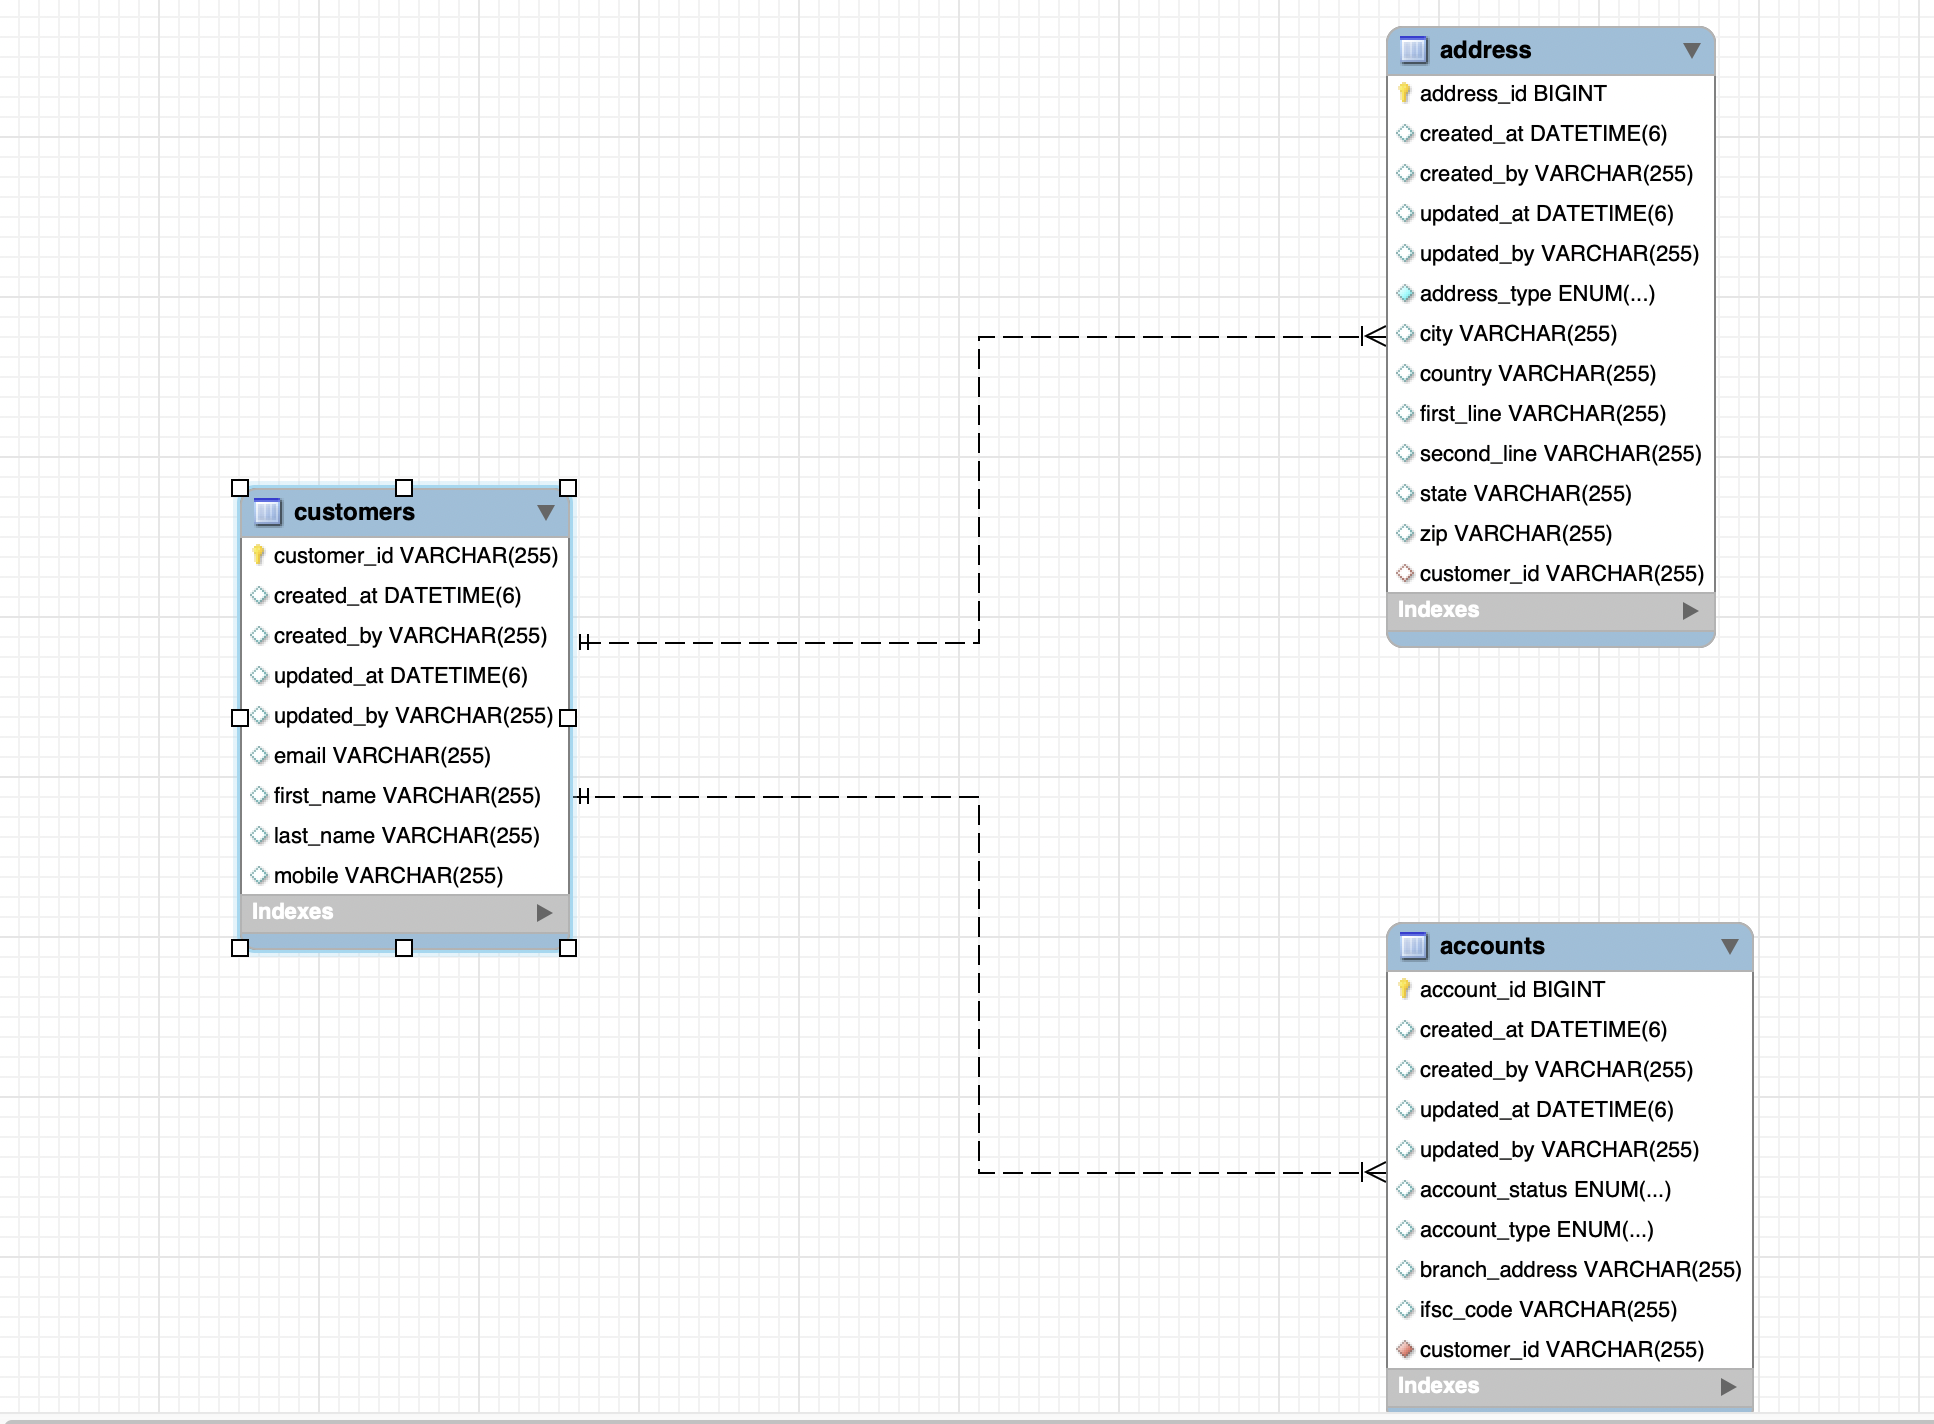
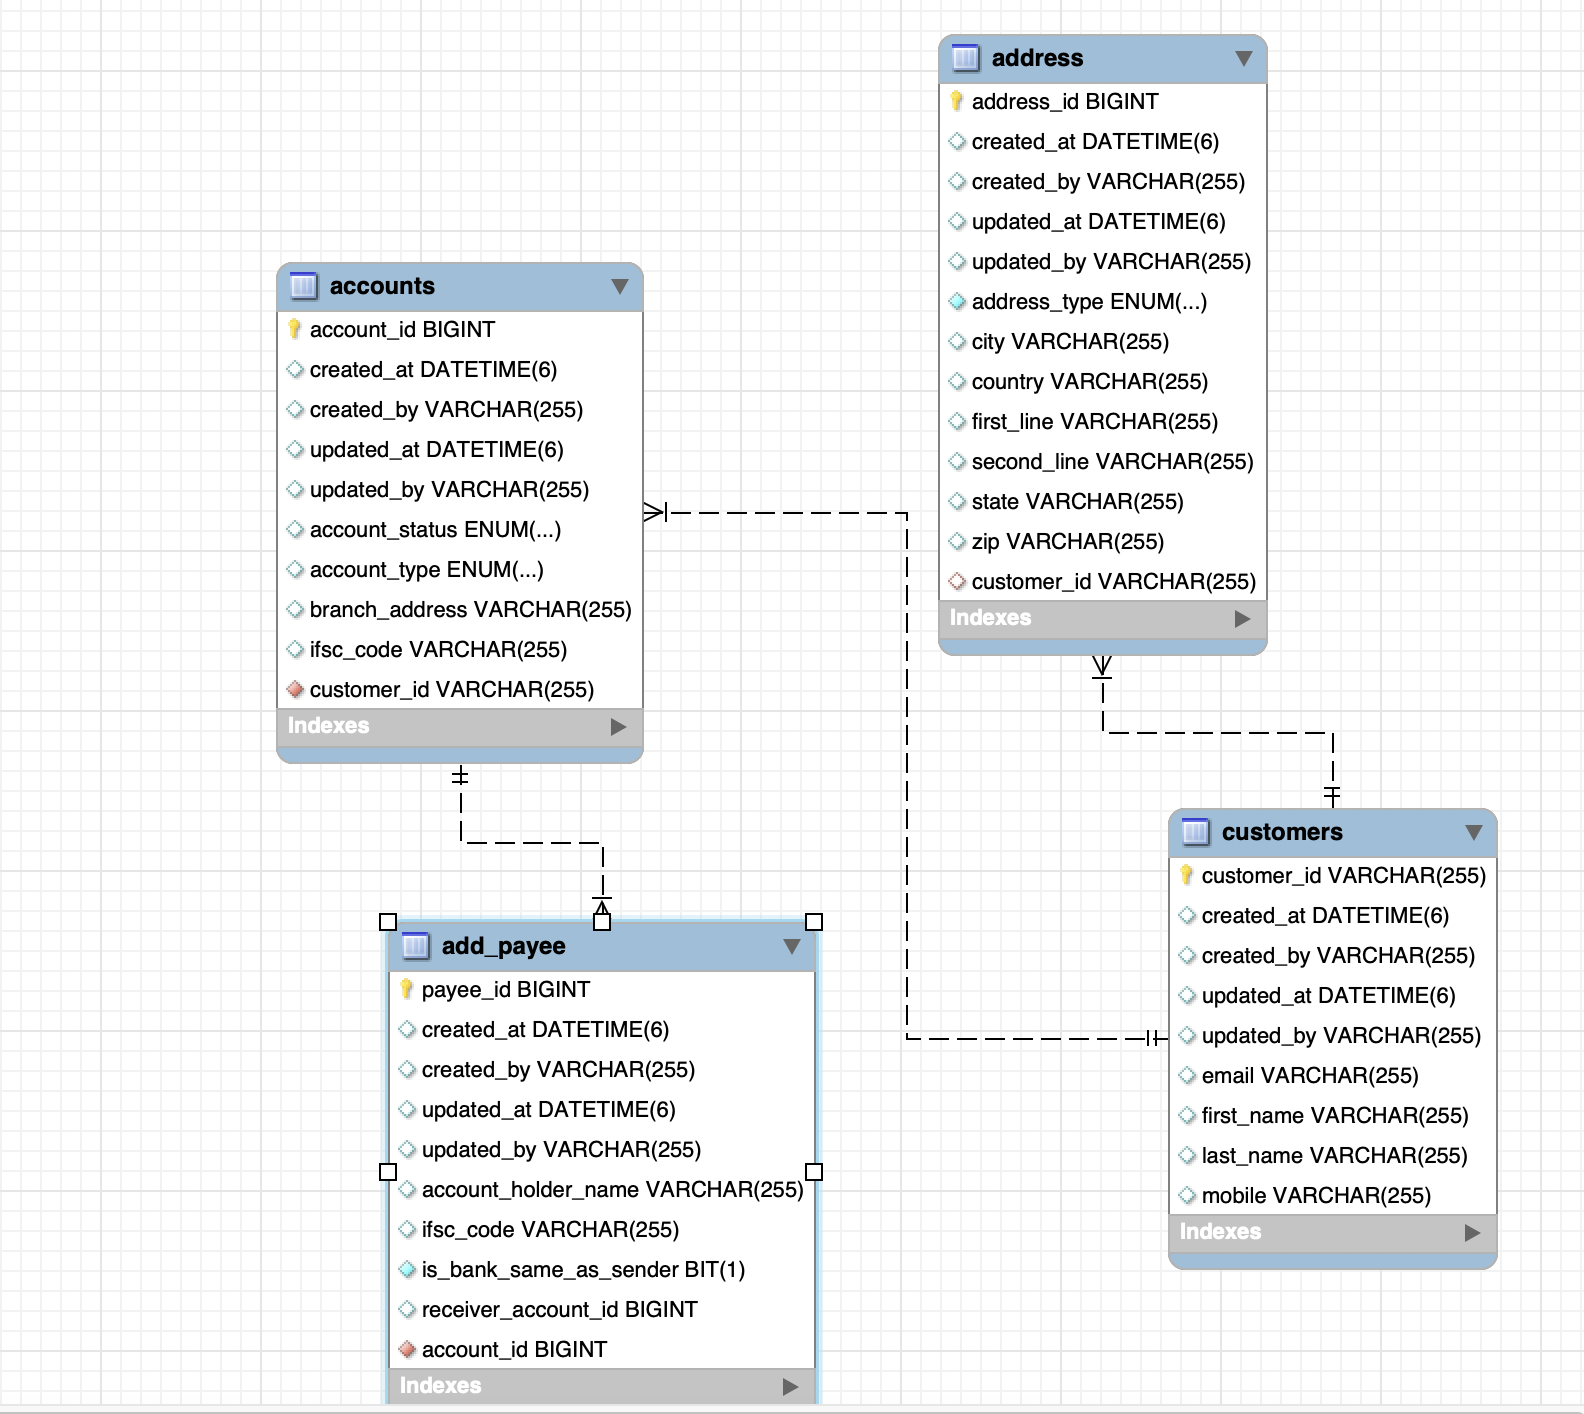
New: Added Payee to transfer the balance; Update: Readme file updated with new entity diagram

diff --git a/src/main/java/com/example/accounts/exception/GlobalExceptionHandler.java b/src/main/java/com/example/accounts/exception/GlobalExceptionHandler.java
@@ -4,10 +4,14 @@ import com.example.accounts.dto.ErrorMessageDto;
 import jakarta.servlet.http.HttpServletRequest;
 import org.springframework.http.HttpStatus;
 import org.springframework.http.ResponseEntity;
+import org.springframework.validation.FieldError;
+import org.springframework.web.bind.MethodArgumentNotValidException;
 import org.springframework.web.bind.annotation.ControllerAdvice;
 import org.springframework.web.bind.annotation.ExceptionHandler;
 
 import java.time.LocalDateTime;
+import java.util.HashMap;
+import java.util.Map;
 
 @ControllerAdvice
 public class GlobalExceptionHandler {
@@ -90,13 +94,60 @@ public class GlobalExceptionHandler {
         return new ResponseEntity<>(errorMessageDto, HttpStatus.INTERNAL_SERVER_ERROR);
     }
 
+    /**
+     * Handles NoPrimaryAddressFound exceptions and returns a bad request response.
+     *
+     * @param ex the NoPrimaryAddressFound instance
+     * @param request the HttpServletRequest object
+     * @return ResponseEntity containing an ErrorMessageDto with error details
+     */
     @ExceptionHandler(NoPrimaryAddressFound.class)
-    public ResponseEntity<ErrorMessageDto> handlePrimaryAddressNotFound(NoPrimaryAddressFound ex, HttpServletRequest request) {
+    public ResponseEntity<ErrorMessageDto> handlePrimaryAddressNotFound(
+            NoPrimaryAddressFound ex,
+            HttpServletRequest request) {
         ErrorMessageDto errorMessageDto = new ErrorMessageDto(
                 request.getRequestURL().toString(),
                 ex.getMessage(),
                 LocalDateTime.now()
         );
         return new ResponseEntity<>(errorMessageDto, HttpStatus.BAD_REQUEST);
+    }
+
+    /**
+     * Handles PayeeExistException and returns a bad request response.
+     *
+     * @param ex      the PayeeExistException instance
+     * @param request the HttpServletRequest object
+     * @return ResponseEntity containing an ErrorMessageDto with error details
+     */
+    @ExceptionHandler(PayeeExistException.class)
+    public ResponseEntity<ErrorMessageDto> handlePayeeExistException(
+            PayeeExistException ex,
+            HttpServletRequest request) {
+
+        ErrorMessageDto errorMessageDto = new ErrorMessageDto(
+                request.getRequestURL().toString(),
+                ex.getMessage(),
+                LocalDateTime.now()
+        );
+        return new ResponseEntity<>(errorMessageDto, HttpStatus.BAD_REQUEST);
+    }
+
+    /**
+     * Handles MethodArgumentNotValidException and returns a bad request response.
+     * Extracts the error messages from the binding result and returns them in a map.
+     *
+     * @param ex the MethodArgumentNotValidException instance
+     * @return ResponseEntity containing a map of error messages
+     */
+    @ExceptionHandler(MethodArgumentNotValidException.class)
+    public ResponseEntity<Map<String, String>> handleValidationException(MethodArgumentNotValidException ex) {
+        Map<String, String> errors = new HashMap<>();
+        ex.getBindingResult().getAllErrors().forEach(error -> {
+            String fieldName = ((FieldError) error).getField();
+            String errorMessage = error.getDefaultMessage();
+            errors.put(fieldName, errorMessage);
+        });
+        return new ResponseEntity<>(errors, HttpStatus.BAD_REQUEST);
     }
 }

diff --git a/src/main/java/com/example/accounts/service/AccountServiceImpl.java b/src/main/java/com/example/accounts/service/AccountServiceImpl.java
@@ -2,11 +2,9 @@ package com.example.accounts.service;
 
 import com.example.accounts.dto.*;
 import com.example.accounts.entity.*;
-import com.example.accounts.exception.AccountExistException;
-import com.example.accounts.exception.AccountNotVerifiedException;
-import com.example.accounts.exception.NoPrimaryAddressFound;
-import com.example.accounts.exception.NoSuchAccountExist;
+import com.example.accounts.exception.*;
 import com.example.accounts.repository.AccountRepository;
+import com.example.accounts.repository.AddPayeeRepository;
 import com.example.accounts.repository.AddressRepository;
 import com.example.accounts.repository.CustomerRepository;
 import com.example.accounts.utils.IdGenerationUtils;
@@ -29,6 +27,7 @@ public class AccountServiceImpl implements AccountService {
     private AccountRepository accountRepository;
     private CustomerRepository customerRepository;
     private AddressRepository addressRepository;
+    private AddPayeeRepository addPayeeRepository;
     private MapperUtils mapperUtils;
     private IdGenerationUtils idGenerationUtils;
 
@@ -163,5 +162,35 @@ public class AccountServiceImpl implements AccountService {
         accountCreatedDto.setCreatedAt(LocalDateTime.now());
         accountCreatedDto.setMessage("Address added successfully");
         return accountCreatedDto;
+    }
+
+    /**
+     * Add a new payee to the account.
+     * @param addPayeeDetailsDto containing the payee details
+     * @return ResponseEntity containing the success message
+     */
+    @Override
+    public SuccessMessageDto addPayee(Long accountId, AddPayeeDetailsDto addPayeeDetailsDto) {
+        Optional<Accounts> accounts= accountRepository.findById(accountId);
+        Long accountToBeAdded= addPayeeDetailsDto.getAccountTobeAdded();
+        if(accounts.isEmpty()){
+            throw new NoSuchAccountExist("Account does not exist with account id: " + accountId);
+        }
+        /*
+          Additional checks such as if account which needs to be added belongs to same bank
+          can be verified and information can be fetched from there.
+         */
+        if(addPayeeRepository
+                .existsByAccounts_accountIdAndReceiverAccountId(accountId, accountToBeAdded)){
+            throw new PayeeExistException("Payee already exists "+ accountToBeAdded);
+        }
+        AddPayee addPayee= mapperUtils.mapToAddPayee(addPayeeDetailsDto, new AddPayee());
+        addPayee.setAccounts(accounts.get());
+        addPayeeRepository.save(addPayee);
+        SuccessMessageDto payeeAdded = new SuccessMessageDto();
+        payeeAdded.setAccountId(addPayee.getAccounts().getAccountId());
+        payeeAdded.setCreatedAt(LocalDateTime.now());
+        payeeAdded.setMessage("Payee added successfully");
+        return payeeAdded;
     }
 }

diff --git a/src/main/java/com/example/accounts/controller/AccountController.java b/src/main/java/com/example/accounts/controller/AccountController.java
@@ -46,13 +46,27 @@ public class AccountController {
         return ResponseEntity.ok(accountDetails);
     }
 
-    @PostMapping("/accounts/{accountId}")
+    /**
+     * Endpoint to add a new address to an existing account.
+     * @param accountId unique identifier of the account
+     * @param newAddressRequestDto containing the new address details
+     * @return ResponseEntity containing the success message
+     */
+    @PostMapping("/address/{accountId}")
     public ResponseEntity<?> addAddress(@PathVariable("accountId") Long accountId,
                                         @RequestBody AddressRequestDto newAddressRequestDto) {
         SuccessMessageDto accountResponseDto=
                 accountService.addNewAddress(accountId, newAddressRequestDto);
         return ResponseEntity.ok(accountResponseDto);
+    }
 
+    @PostMapping("/accounts/{accountId}/addpayee")
+    public ResponseEntity<?> addPayee(
+            @PathVariable("accountId") Long accountId,
+            @Valid @RequestBody AddPayeeDetailsDto addPayeeDetailsDto) {
+        SuccessMessageDto accountResponseDto=
+                accountService.addPayee(accountId, addPayeeDetailsDto);
+        return ResponseEntity.ok(accountResponseDto);
     }
 
 }

diff --git a/src/main/java/com/example/accounts/utils/MapperUtils.java b/src/main/java/com/example/accounts/utils/MapperUtils.java
@@ -1,7 +1,6 @@
 package com.example.accounts.utils;
 
-import com.example.accounts.dto.AddressRequestDto;
-import com.example.accounts.dto.CustomerRegistrationDto;
+import com.example.accounts.dto.*;
 import com.example.accounts.entity.*;
 import org.springframework.stereotype.Component;
 
@@ -75,5 +74,19 @@ public class MapperUtils {
         address.setZip(addressDto.getZip());
         address.setCountry(addressDto.getCountry());
         return address;
+    }
+
+    /**
+     * Maps an AddPayeeDetailsDto object to an AddPayee object.
+     * @param addPayeeDetailsDto the source object
+     * @param addPayee the target object
+     * @return the updated AddPayee object
+     */
+    public AddPayee mapToAddPayee(AddPayeeDetailsDto addPayeeDetailsDto, AddPayee addPayee) {
+        addPayee.setAccountHolderName(addPayeeDetailsDto.getAccountHolderName());
+        addPayee.setReceiverAccountId(addPayeeDetailsDto.getAccountTobeAdded());
+        addPayee.setIfscCode(addPayeeDetailsDto.getIfscCode());
+        addPayee.setBankSameAsSender(addPayeeDetailsDto.isBankSameAsSender());
+        return addPayee;
     }
 }

diff --git a/src/main/java/com/example/accounts/entity/AddPayee.java b/src/main/java/com/example/accounts/entity/AddPayee.java
@@ -1,0 +1,28 @@
+package com.example.accounts.entity;
+
+import jakarta.persistence.*;
+import lombok.AllArgsConstructor;
+import lombok.Getter;
+import lombok.NoArgsConstructor;
+import lombok.Setter;
+
+@Getter
+@Setter
+@AllArgsConstructor
+@NoArgsConstructor
+@Entity
+@Table(name = "add_payee")
+public class AddPayee extends BaseEntity{
+    @Id
+    @GeneratedValue(strategy = GenerationType.IDENTITY)
+    @Column(name = "payee_id")
+    private Long payeeId;
+
+    @OneToOne
+    @JoinColumn(name = "account_id", referencedColumnName = "account_id", nullable = false)
+    private Accounts accounts;
+    private String accountHolderName;
+    private Long receiverAccountId;
+    private String ifscCode;
+    private boolean isBankSameAsSender;
+}

diff --git a/src/main/java/com/example/accounts/dto/AddPayeeDetailsDto.java b/src/main/java/com/example/accounts/dto/AddPayeeDetailsDto.java
@@ -1,0 +1,26 @@
+package com.example.accounts.dto;
+
+import jakarta.validation.constraints.*;
+import lombok.AllArgsConstructor;
+import lombok.Data;
+import lombok.NoArgsConstructor;
+
+@Data
+@AllArgsConstructor
+@NoArgsConstructor
+public class AddPayeeDetailsDto {
+
+    @Digits(integer = 18, fraction = 0, message = "Account number must be between 9 to 18 digits")
+    @Min(100000000L)
+    @Max(999999999999999999L)
+    private Long accountTobeAdded;
+
+    @NotBlank(message = "Account holder name is required")
+    private String accountHolderName;
+
+    @NotBlank(message = "IFSC code is required")
+    private String ifscCode;
+
+    @NotNull(message = "Mention if bank same as sender")
+    private boolean bankSameAsSender;
+}

diff --git a/src/main/java/com/example/accounts/repository/AddressRepository.java b/src/main/java/com/example/accounts/repository/AddressRepository.java
@@ -1,7 +1,7 @@
 package com.example.accounts.repository;
 
 import com.example.accounts.entity.Address;
-import com.example.accounts.entity.AddressType;
+import com.example.accounts.dto.AddressType;
 import jakarta.transaction.Transactional;
 import org.springframework.data.jpa.repository.JpaRepository;
 import org.springframework.data.jpa.repository.Modifying;
@@ -16,4 +16,5 @@ public interface AddressRepository extends JpaRepository<Address, Long> {
     @Modifying
     @Query(value = "UPDATE Address ad SET ad.address_type = :addressType WHERE ad.customer_id = :customerId", nativeQuery = true)
     void updatePrimaryAddressToMailingAddress(@Param("customerId") String customerId, @Param("addressType") AddressType addressType);
+
 }

diff --git a/src/main/java/com/example/accounts/repository/AddPayeeRepository.java b/src/main/java/com/example/accounts/repository/AddPayeeRepository.java
@@ -1,0 +1,11 @@
+package com.example.accounts.repository;
+
+import com.example.accounts.entity.AddPayee;
+import org.springframework.data.jpa.repository.JpaRepository;
+import org.springframework.data.jpa.repository.Query;
+import org.springframework.stereotype.Repository;
+
+@Repository
+public interface AddPayeeRepository extends JpaRepository<AddPayee, Long> {
+    boolean existsByAccounts_accountIdAndReceiverAccountId(Long accountId, Long accountToBeAdded);
+}

diff --git a/src/main/java/com/example/accounts/repository/AccountRepository.java b/src/main/java/com/example/accounts/repository/AccountRepository.java
@@ -1,13 +1,9 @@
 package com.example.accounts.repository;
 
 import com.example.accounts.entity.Accounts;
-import com.example.accounts.entity.AddressType;
 import jakarta.transaction.Transactional;
 import org.springframework.data.jpa.repository.JpaRepository;
-import org.springframework.data.jpa.repository.Query;
 import org.springframework.stereotype.Repository;
-
-import java.math.BigInteger;
 
 @Repository
 @Transactional

diff --git a/src/main/java/com/example/accounts/service/AccountService.java b/src/main/java/com/example/accounts/service/AccountService.java
@@ -11,4 +11,6 @@ public interface AccountService {
     SuccessMessageDto updateCustomerDetails(Long accountId, CustomerRegistrationDto customerRegistrationDto);
 
     SuccessMessageDto addNewAddress(Long accountId, AddressRequestDto newAddressRequestDto);
+
+    SuccessMessageDto addPayee(Long accountId,AddPayeeDetailsDto addPayeeDetailsDto);
 }

diff --git a/src/main/java/com/example/accounts/entity/Accounts.java b/src/main/java/com/example/accounts/entity/Accounts.java
@@ -1,12 +1,11 @@
 package com.example.accounts.entity;
 
+import com.example.accounts.dto.AccountType;
 import jakarta.persistence.*;
 import lombok.AllArgsConstructor;
 import lombok.Getter;
 import lombok.NoArgsConstructor;
 import lombok.Setter;
-
-import java.math.BigInteger;
 
 @Getter
 @Setter

diff --git a/src/main/java/com/example/accounts/entity/Address.java b/src/main/java/com/example/accounts/entity/Address.java
@@ -1,10 +1,8 @@
 package com.example.accounts.entity;
 
+import com.example.accounts.dto.AddressType;
 import jakarta.persistence.*;
 import lombok.*;
-
-import java.math.BigInteger;
-import java.time.LocalDateTime;
 
 @Getter
 @Setter
